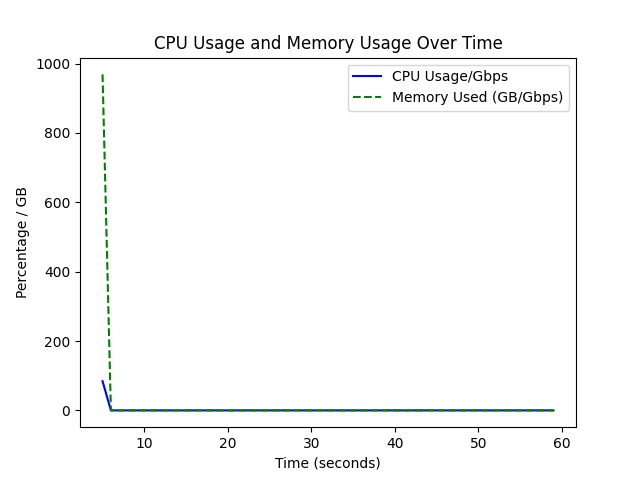
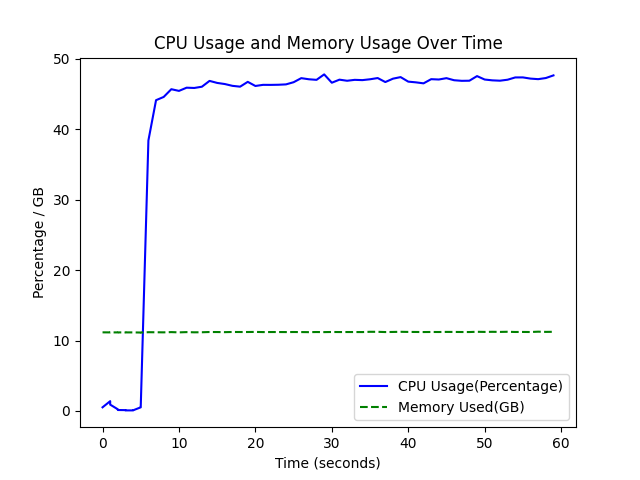
redraw

diff --git a/draw_resource.py b/draw_resource.py
@@ -13,15 +13,16 @@ def plot_from_csv(csv_file):
     cpu_usage = df[['usr', 'sys', 'idl']]
     memory_usage = df[['used', 'free', 'cach', 'avai']]
     #计算吞吐
-    df['recv_t'] = ((df['recv'] * 8) / 1024) / 1024
-    df['send_t'] = ((df['send'] * 8) / 1024) / 1024
+    # df['throughput'] = (df['recv'] + df['send'])
+    df['cpu_usage'] = cpu_usage['usr'] + cpu_usage['sys']
+
 
     # 绘制 CPU 使用率
-    plt.plot(df['time'], (cpu_usage['usr'] + cpu_usage['sys']) / df['recv_t'], label='CPU Usage/Gbps', color='blue', linestyle='-', linewidth=1.5)
+    plt.plot(df['time'], df['cpu_usage'], label='CPU Usage(Percentage)', color='blue', linestyle='-', linewidth=1.5)
     #plt.plot(df['time'], (cpu_usage['usr'] + cpu_usage['sys']) / df['send_t'], label='send CPU Usage/Gbps', color='red', linestyle='-', linewidth=1.5)
 
     # 绘制内存使用量
-    plt.plot(df['time'], (memory_usage['used'] / (1024**3)) / df['recv_t'], label='Memory Used (GB/Gbps)', color='green', linestyle='--', linewidth=1.5)
+    plt.plot(df['time'], (memory_usage['used'] / (1024**3)), label='Memory Used(GB)', color='green', linestyle='--', linewidth=1.5)
     #plt.plot(df['time'], (memory_usage['used'] / (1024**3)) / df['send_t'], label='send Memory Used (GB/Gbps)', color='yellow', linestyle='--', linewidth=1.5)
 
     # 绘制图表
@@ -30,7 +31,7 @@ def plot_from_csv(csv_file):
     plt.title('CPU Usage and Memory Usage Over Time')
     plt.legend()
     base_name = os.path.splitext(os.path.basename(csv_file))[0]
-    png_file = f'{base_name}.png'
+    png_file = f'ospf/resource/{base_name}.png'
     plt.savefig(png_file)
     plt.show()
     
